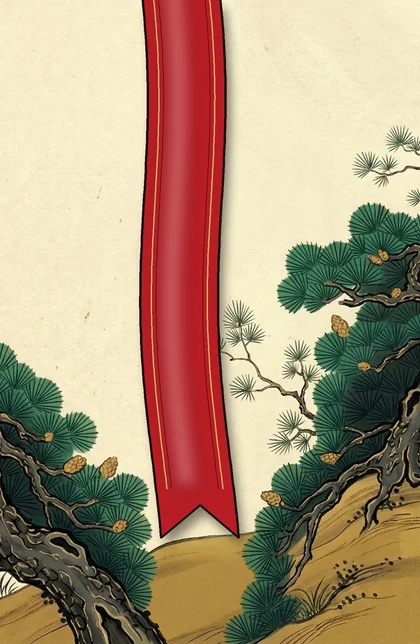
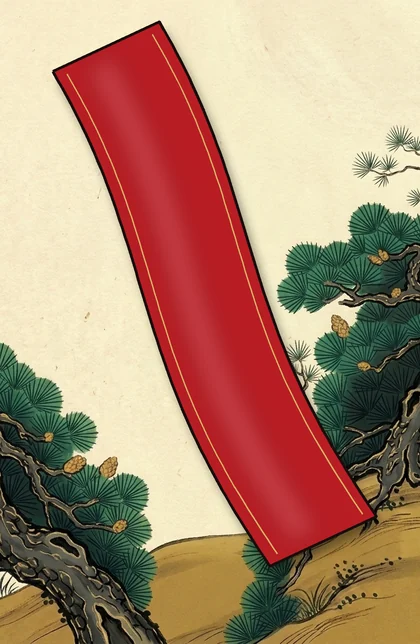
Tablet app: hwatu-style diagonal ribbons, floor hint highlight, no gwang glow
- Ribbon cards: wide band running from upper left to lower right with a gentle
  sway and square-cut ends, as on the original hwatu (no text).
- Floor cards of a month in which I hold a matching hand card get the same
  magenta frame as the hand card (follows the existing hints toggle).
- Remove the gold glow / shine sweep on gwang cards (bird glow stays).

Claude-Session: https://claude.ai/code/session_01N2zEsaWZBVGMe723xr5poz

Changed region(s): [[0.1238, 0.0, 0.8976, 0.9006]]

diff --git a/sw.js b/sw.js
@@ -1,5 +1,5 @@
 // automatisch erzeugt (npm run build:web)
-const CACHE = 'matgo-ad6d722f4bc9';
+const CACHE = 'matgo-76e8ef140dad';
 const FILES = ["./","./app.js","./assets/cards/m01-gwang.webp","./assets/cards/m01-hong.webp","./assets/cards/m01-pi1.webp","./assets/cards/m01-pi2.webp","./assets/cards/m02-hong.webp","./assets/cards/m02-pi1.webp","./assets/cards/m02-pi2.webp","./assets/cards/m02-yeol.webp","./assets/cards/m03-gwang.webp","./assets/cards/m03-hong.webp","./assets/cards/m03-pi1.webp","./assets/cards/m03-pi2.webp","./assets/cards/m04-cho.webp","./assets/cards/m04-pi1.webp","./assets/cards/m04-pi2.webp","./assets/cards/m04-yeol.webp","./assets/cards/m05-cho.webp","./assets/cards/m05-pi1.webp","./assets/cards/m05-pi2.webp","./assets/cards/m05-yeol.webp","./assets/cards/m06-cheong.webp","./assets/cards/m06-pi1.webp","./assets/cards/m06-pi2.webp","./assets/cards/m06-yeol.webp","./assets/cards/m07-cho.webp","./assets/cards/m07-pi1.webp","./assets/cards/m07-pi2.webp","./assets/cards/m07-yeol.webp","./assets/cards/m08-gwang.webp","./assets/cards/m08-pi1.webp","./assets/cards/m08-pi2.webp","./assets/cards/m08-yeol.webp","./assets/cards/m09-cheong.webp","./assets/cards/m09-pi1.webp","./assets/cards/m09-pi2.webp","./assets/cards/m09-yeol.webp","./assets/cards/m10-cheong.webp","./assets/cards/m10-pi1.webp","./assets/cards/m10-pi2.webp","./assets/cards/m10-yeol.webp","./assets/cards/m11-gwang.webp","./assets/cards/m11-pi1.webp","./assets/cards/m11-pi2.webp","./assets/cards/m11-ssangpi.webp","./assets/cards/m12-gwang.webp","./assets/cards/m12-ssangpi.webp","./assets/cards/m12-tti.webp","./assets/cards/m12-yeol.webp","./audio/go1.mp3","./audio/go2.mp3","./audio/go3.mp3","./audio/go4.mp3","./audio/go5.mp3","./audio/ppeok1.mp3","./audio/ppeok2.mp3","./audio/ppeok3.mp3","./audio/ppeok4.mp3","./audio/ppeok5.mp3","./audio/steal1.mp3","./audio/steal2.mp3","./audio/steal3.mp3","./audio/steal4.mp3","./audio/stop.mp3","./cards-svg.js","./commentary.js","./config.js","./effects.js","./i18n.de.js","./i18n.en.js","./i18n.js","./i18n.ko.js","./icons/icon-192.png","./icons/icon-512.png","./index.html","./manifest.webmanifest","./net.js","./regeln.de.html","./rules.en.html","./rules.ko.html","./scenes.js","./server/bot.js","./server/hub.js","./server/room.js","./sound.js","./src/engine/cards.js","./src/engine/game.js","./src/engine/rng.js","./src/engine/rules-config.js","./src/engine/score.js","./src/engine/settle.js","./src/engine/view.js","./style.css","./vendor/peerjs.min.js","./voice.js"];
 self.addEventListener('install', (e) => {
   // cache: 'reload' – am HTTP-Cache des Browsers vorbei, sonst kämen alte Dateien in den neuen Speicher

diff --git a/app.js b/app.js
@@ -425,7 +425,7 @@ function capturedHtml(side, ids, gukjinAs, score) {
     .join('')}</div>`;
 }
 
-function floorHtml(g) {
+function floorHtml(g, hintMonths = new Set()) {
   if (g.floorHidden) {
     return `<div class="floor hidden-floor">${Array.from({ length: g.floorHidden }, () => `<div class="stack">${back()}</div>`).join('')}<p class="floor-note">${T.floorHidden}</p></div>`;
   }
@@ -440,7 +440,7 @@ function floorHtml(g) {
       const badge = g.ppeokMonths.includes(m) ? `<span class="badge">Ppeok</span>` : '';
       const extra = g.ppeokBonus?.[m] ?? [];
       const wide = ids.length + extra.length >= 3 ? ' wide' : '';
-      return `<div class="stack${wide}" data-month="${m}" aria-label="${esc(T.month(m))}">${badge}${[...ids, ...extra].map((id) => card(id)).join('')}</div>`;
+      return `<div class="stack${wide}" data-month="${m}" aria-label="${esc(T.month(m))}">${badge}${[...ids, ...extra].map((id) => card(id, { cls: hintMonths.has(m) ? 'hint-floor' : '' })).join('')}</div>`;
     })
     .join('');
   return `<div class="floor">${stacks}</div>`;
@@ -561,6 +561,8 @@ function renderGame(g) {
         ? T.yourTurn
         : T.turnOf(nameOf(g.turn));
   const floorMonths = new Set(g.floor.map((id) => cardInfo(id).month));
+  // Monate, in denen ich eine passende Handkarte habe: dieselbe Hervorhebung auch auf den Bodenkarten
+  const hintMonths = new Set(hints && myTurn ? g.hand.filter((id) => !id.startsWith('b-')).map((id) => cardInfo(id).month).filter((m) => floorMonths.has(m)) : []);
 
   const hand = g.hand
     .map((id) => {
@@ -592,7 +594,7 @@ function renderGame(g) {
   <div class="status ${myTurn || (g.pending && g.pending.type !== 'opponentDeciding') ? 'mine' : ''}">${esc(statusText)}</div>
   ${sitOutBox}
   <section class="table">
-    ${floorHtml(g)}
+    ${floorHtml(g, hintMonths)}
     <div class="pile"><span class="card" id="pile">${cardBackSvg()}</span><span id="pile-count">${T.cardsLeft(g.pileCount)}</span></div>
   </section>
   ${inflight}

diff --git a/cards-svg.js b/cards-svg.js
@@ -279,12 +279,9 @@ export function cardSvg(id) {
   const kind = info.bonus ? `${T.bonusName} +${info.piValue}` : info.piValue === 2 ? `2× ${T.kindShort.pi}` : T.kindShort[info.kind];
   const clip = `clip-${id}-${++clipSeq}`; // eindeutig: dieselbe Karte kann mehrfach im Bild sein
   // Hervorhebung: Lichter glänzen golden, die Vögel (Godori und die Schwalbe für Bi-Godori) leuchten blau und hüpfen
-  const fx = info.kind === 'gwang' ? ' k-gwang' : info.godori || id === 'm12-yeol' ? ' k-bird' : '';
-  const shine =
-    info.kind === 'gwang'
-      ? `<linearGradient id="${clip}-s" x1="0" x2="1"><stop offset="0" stop-color="#fff" stop-opacity="0"/><stop offset=".5" stop-color="#fff8d8" stop-opacity=".75"/><stop offset="1" stop-color="#fff" stop-opacity="0"/></linearGradient>`
-      : '';
-  const sweep = shine ? `<g class="shine"><rect x="-10" y="-6" width="20" height="96" fill="url(#${clip}-s)" transform="skewX(-18)"/></g>` : '';
+  const fx = info.godori || id === 'm12-yeol' ? ' k-bird' : ''; // nur die Vögel leuchten; Lichter (광) ohne Extra-Effekt
+  const shine = '';
+  const sweep = '';
   const delay = fx ? ` style="--d:${(-0.9 * info.month).toFixed(1)}s"` : ''; // nicht alle im Gleichtakt
   return `<svg viewBox="0 0 60 92" class="card-svg${fx}"${delay} role="img" aria-label="${cardLabel(id)}">
 <defs><clipPath id="${clip}"><rect x="1" y="1" width="58" height="78" rx="4.5"/></clipPath>${shine}</defs>

diff --git a/style.css b/style.css
@@ -60,12 +60,20 @@ button.card.hint {
   from { box-shadow: 0 0 0 3px var(--hint), 0 0 8px 1px var(--hint); }
   to { box-shadow: 0 0 0 3px var(--hint), 0 0 18px 5px var(--hint); }
 }
+/* Bodenkarten, zu denen ich eine passende Handkarte habe: gleicher Rahmen wie die Handkarte */
+.stack .card.hint-floor {
+  position: relative;
+  z-index: 2;
+  border-radius: 7px;
+  box-shadow: 0 0 0 3px var(--hint), 0 0 14px 3px var(--hint);
+  animation: hint-pulse 1.1s ease-in-out infinite alternate;
+}
 /* gerade gelandete Karte und getroffener Stapel */
 .stack.hit .card { box-shadow: 0 0 0 2px #fff, 0 0 12px 3px rgba(255, 255, 255, 0.8); border-radius: 6px; }
 .card.landed { position: relative; z-index: 3; }
 @media (prefers-reduced-motion: reduce) {
   button.card { transition: none; }
-  button.card.hint { animation: none; }
+  button.card.hint, .stack .card.hint-floor { animation: none; }
 }
 
 /* Bereiche */

diff --git a/config.js b/config.js
@@ -1,2 +1,2 @@
 // automatisch erzeugt (npm run build:web)
-export const CONFIG = { mode: 'app', version: '21.11.2026 15:45' };
+export const CONFIG = { mode: 'app', version: '21.11.2026 16:10' };

diff --git a/tools/build_cards.py b/tools/build_cards.py
@@ -23,53 +23,37 @@ RED, BLUE, GREEN = (184, 29, 36), (29, 74, 153), (34, 120, 66)
 import math
 from PIL import ImageChops
 
-def emptiest_x(im, wfrac):
-    """x-center (fraction) of the vertical strip with the least detail -> ribbon hangs where it hides least art."""
-    g = im.convert('L').filter(ImageFilter.FIND_EDGES).resize((84, 128))
-    px = g.load(); w = max(2, round(84 * wfrac)); best = None
-    cols = [sum(px[x, y] for y in range(0, 108)) for x in range(84)]
-    for x0 in range(round(84 * 0.20), round(84 * 0.80) - w):
-        c = sum(cols[x0:x0 + w]) + abs((x0 + w / 2) / 84 - 0.5) * 900   # slight pull to the middle
-        if best is None or c < best[0]: best = (c, (x0 + w / 2) / 84)
-    return best[1]
-
-def ribbon(im, color, flip=1):
-    """Tanzaku hanging from the top edge: slim vertical strip, gentle sway, swallow-tail bottom, gold hairlines."""
+def ribbon(im, color, month=1):
+    """Original-hwatu ribbon: wide straight band, square-cut ends, running from upper left to lower right
+    across the middle of the card (angle varies a little per month). No text."""
     W, H = im.size
-    wr = 0.185; w = W * wr
-    x0 = emptiest_x(im, wr) * W
-    y0, y1 = -H * 0.02, H * 0.835
-    tilt = flip * 0.028 * H          # horizontal drift top->bottom
-    amp = W * 0.018
-    N = 90
-    pts = []
-    for i in range(N + 1):
-        t = i / N
-        pts.append((x0 - tilt / 2 + tilt * t + amp * math.sin(t * math.pi * 2.1 + 0.6), y0 + (y1 - y0) * t))
-    L = [(x - w / 2, y) for x, y in pts]; R = [(x + w / 2, y) for x, y in pts]
-    notch = w * 0.42
-    cx, cy = pts[-1]
-    poly = L + [(cx - w / 2, cy), (cx, cy - notch), (cx + w / 2, cy)] + R[::-1]
-    def off(dx): return [(x + dx, y) for x, y in pts[:-8]]
+    th = math.radians(18 + (month * 7) % 11)          # 18..28 deg from vertical
+    w = W * 0.28; half = H * 0.38 / math.cos(th)
+    cx, cy = W * 0.5, H * 0.46
+    ux, uy = math.sin(th), math.cos(th)               # down-right along the band
+    nx, ny = math.cos(th), -math.sin(th)
+    def P(a, b): return (cx + ux * a + nx * b, cy + uy * a + ny * b)
+    N = 60; amp = W * 0.035; ph = 0.5 + month * 0.37          # gentle sway like the printed ribbons
+    sw = lambda i: amp * math.sin(2 * math.pi * 0.85 * i / N + ph)
+    A = lambda i: -half + 2 * half * i / N
+    left = [P(A(i), sw(i) - w / 2) for i in range(N + 1)]
+    right = [P(A(i), sw(i) + w / 2) for i in range(N + 1)]
+    poly = left + right[::-1]
+    gl = lambda k: [P(A(i) * 0.97, sw(i) + w * k) for i in range(N + 1)]
+    clip = Image.new('L', im.size, 0); ImageDraw.Draw(clip).polygon(poly, fill=255)
     layer = Image.new('RGBA', im.size, (0, 0, 0, 0)); d = ImageDraw.Draw(layer)
     d.polygon(poly, fill=color + (255,))
-    # soft sheen along the centre line
-    sheen = Image.new('RGBA', im.size, (0, 0, 0, 0)); sd = ImageDraw.Draw(sheen)
-    sd.line(off(-w * 0.10), fill=(255, 255, 255, 70), width=int(w * 0.34), joint='curve')
-    sheen = sheen.filter(ImageFilter.GaussianBlur(w * 0.10))
-    clip = Image.new('L', im.size, 0); ImageDraw.Draw(clip).polygon(poly, fill=255)
-    sheen.putalpha(ImageChops.multiply(sheen.split()[3], clip))
-    layer.alpha_composite(sheen)
+    sheen = Image.new('RGBA', im.size, (0, 0, 0, 0))
+    ImageDraw.Draw(sheen).line(gl(-0.12), fill=(255, 255, 255, 34), width=int(w * 0.34), joint='curve')
+    sheen = sheen.filter(ImageFilter.GaussianBlur(w * 0.09))
+    sheen.putalpha(ImageChops.multiply(sheen.split()[3], clip)); layer.alpha_composite(sheen)
     d = ImageDraw.Draw(layer)
-    dark = tuple(int(c * 0.45) for c in color) + (255,); gold = (214, 178, 96, 255)
-    d.line(poly + [poly[0]], fill=(25, 14, 12, 255), width=max(3, int(W * 0.006)), joint='curve')
-    d.line(off(-w * 0.36), fill=gold, width=max(2, int(W * 0.0035)), joint='curve')
-    d.line(off(w * 0.36), fill=gold, width=max(2, int(W * 0.0035)), joint='curve')
-    d.line(off(-w * 0.30), fill=dark, width=max(1, int(W * 0.002)), joint='curve')
-    d.line(off(w * 0.30), fill=dark, width=max(1, int(W * 0.002)), joint='curve')
-    # shadow
-    sh = Image.new('RGBA', im.size, (0, 0, 0, 0))
-    sh.paste((0, 0, 0, 120), (int(W * 0.012), int(W * 0.022)), clip)
+    gold = (214, 178, 96, 255); ink = (25, 14, 12, 255)
+    d.line(poly + [poly[0]], fill=ink, width=max(3, int(W * 0.007)), joint='curve')
+    ins = 0.40
+    d.line(gl(-ins), fill=gold, width=max(2, int(W * 0.0035)))
+    d.line(gl(ins), fill=gold, width=max(2, int(W * 0.0035)))
+    sh = Image.new('RGBA', im.size, (0, 0, 0, 0)); sh.paste((0, 0, 0, 120), (int(W * 0.012), int(W * 0.022)), clip)
     sh = sh.filter(ImageFilter.GaussianBlur(W * 0.012))
     base = im.convert('RGBA'); base.alpha_composite(sh); base.alpha_composite(layer)
     return base.convert('RGB')
@@ -92,5 +76,5 @@ for k,f in M.items(): save(fit(f'{H}/{f}'), k)
 RB = {1:('hong',RED),2:('hong',RED),3:('hong',RED),4:('cho',GREEN),5:('cho',GREEN),7:('cho',GREEN),
       6:('cheong',BLUE),9:('cheong',BLUE),10:('cheong',BLUE),12:('tti',RED)}
 for m,(kind,col) in RB.items():
-    save(ribbon(fit(f'{H}/{m:02d}-ribbon.jpg'), col, 1 if m % 2 else -1), f'm{m:02d}-{kind}')
+    save(ribbon(fit(f'{H}/{m:02d}-ribbon.jpg'), col, m), f'm{m:02d}-{kind}')
 print(len(os.listdir(O)))
